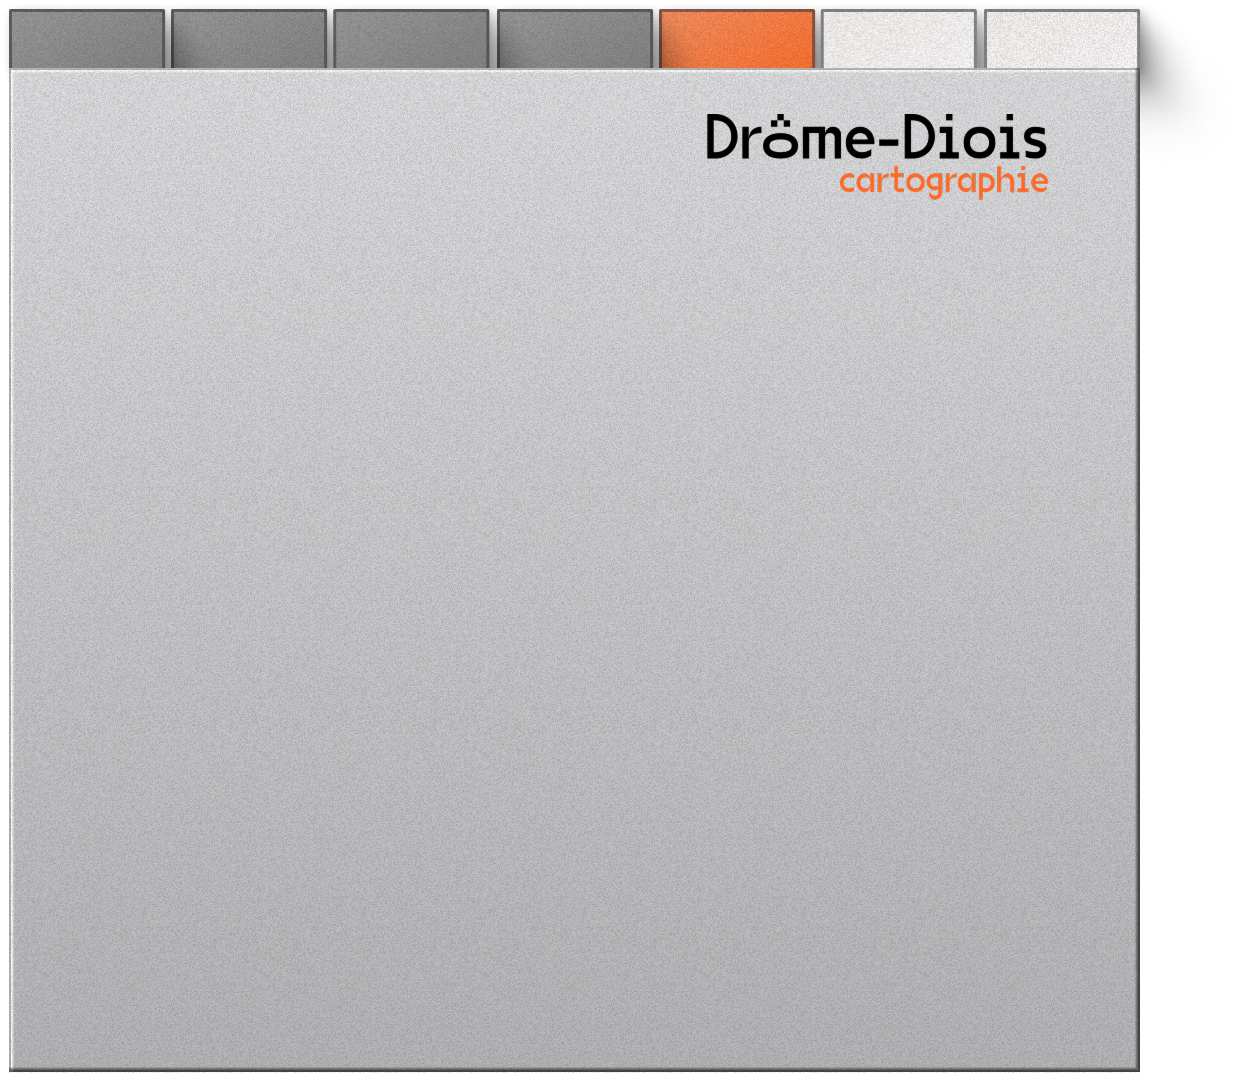
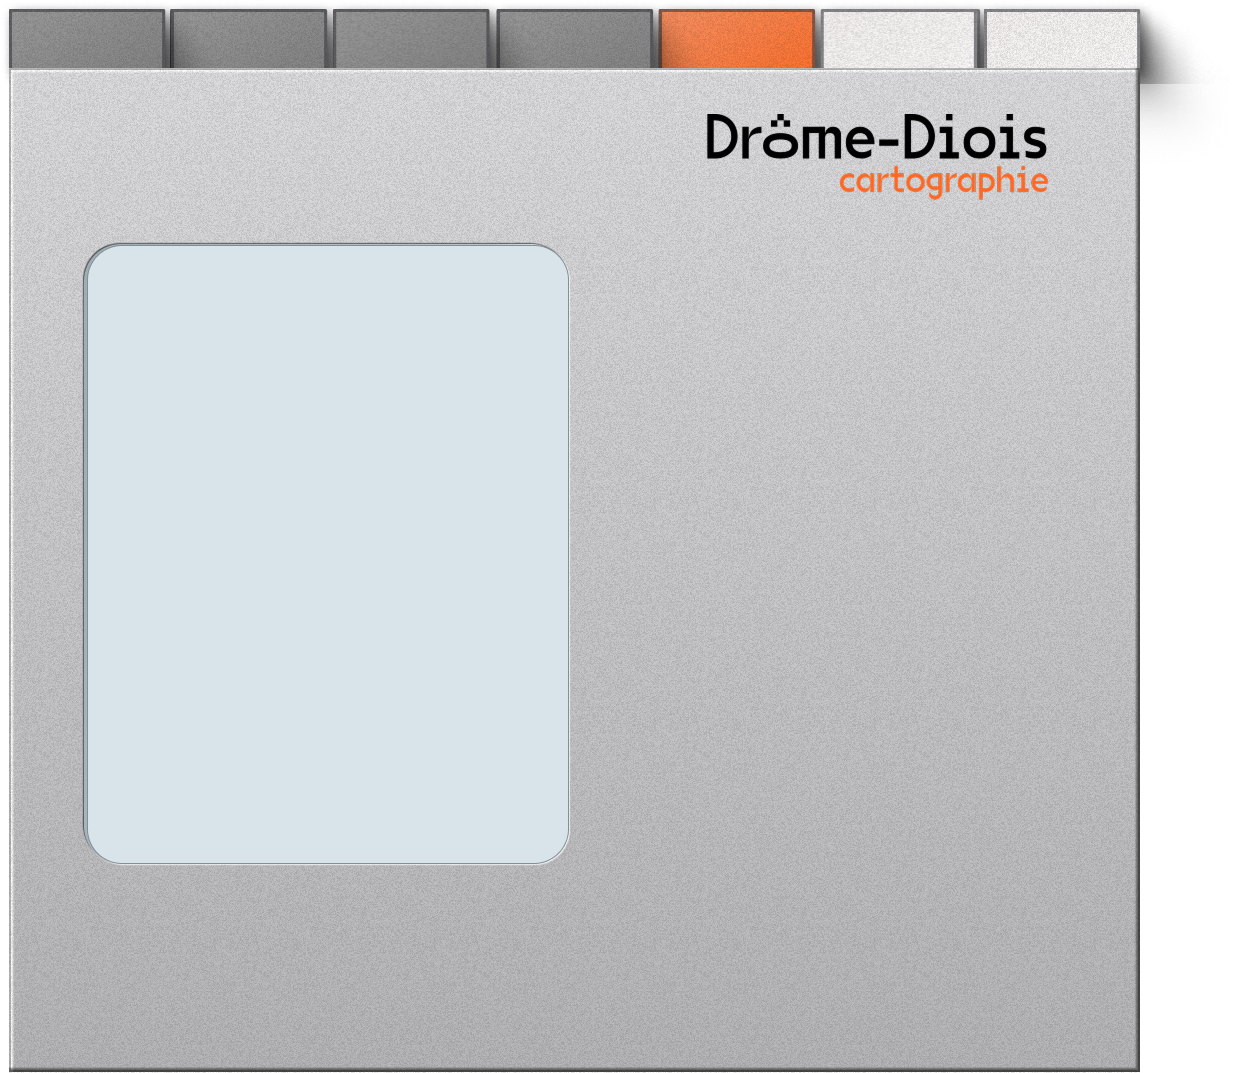
fix: restaure design onglets baké + sliders découplés + rotation robuste + slider opacité drone
- Onglets: RESTAURE le design keycap baké (fini l'aplatissement). Plaques dédiées
  activ/patri = corps réutilisé (nature/faune) + bande d'onglets de la bonne plaque
  (bon onglet orange baké). v4Plate remis sur activ/patri. Labels overlay (chips vides).
- Sliders: knoll suit le doigt EN DIRECT, apply carte (setPaintProperty/hillshade)
  throttlé ~90ms → curseur fluide même si la carte traîne (jank Android).
- Rotation: fitPanel IGNORE le paysage (plus de panneau à 350% coincé) + re-fit
  décalé (150/400/800ms) au retour portrait. Lock + garde CSS conservés.
- Expe: slider opacité drone (track dessiné + knoll) sous le bouton Drone,
  câblé state.droneOpacity -> drone-lyr raster-opacity.
- SW v13 to v14.

diff --git a/index.html b/index.html
@@ -2344,11 +2344,14 @@ const ICON4={
   car:c=>`<svg xmlns='http://www.w3.org/2000/svg' viewBox='0 0 24 24' fill='none' stroke='${c}' stroke-width='1.6' stroke-linecap='round' stroke-linejoin='round'><path d='M7 17m-2 0a2 2 0 1 0 4 0a2 2 0 1 0 -4 0'/><path d='M17 17m-2 0a2 2 0 1 0 4 0a2 2 0 1 0 -4 0'/><path d='M5 17h-2v-6l2 -5h9l4 5h1a2 2 0 0 1 2 2v4h-2m-4 0h-6m-6 -6h15m-6 0v-5'/></svg>`,
   bike:c=>`<svg xmlns='http://www.w3.org/2000/svg' viewBox='0 0 24 24' fill='${c}'><path d='M5 14a4 4 0 1 1 -4 4l.005 -.2a4 4 0 0 1 3.995 -3.8'/><path d='M19 14a4 4 0 1 1 -4 4l.005 -.2a4 4 0 0 1 3.995 -3.8'/><path d='M14.832 7.445l1.703 2.555h2.465a1 1 0 0 1 .993 .883l.007 .117a1 1 0 0 1 -1 1h-3a1 1 0 0 1 -.832 -.445l-1.396 -2.093l-3.275 2.62l2.21 2.21a1 1 0 0 1 .284 .577l.009 .131v4a1 1 0 0 1 -2 0v-3.585l-2.707 -2.708a1 1 0 0 1 -.01 -1.403l.092 -.085l5 -4a1 1 0 0 1 1.457 .226'/><path d='M17 3a2 2 0 1 1 -2 2l.005 -.15a2 2 0 0 1 1.995 -1.85'/></svg>`,
   foot:c=>`<svg xmlns='http://www.w3.org/2000/svg' viewBox='0 0 24 24' fill='none' stroke='${c}' stroke-width='1.6' stroke-linecap='round' stroke-linejoin='round'><path d='M13 4m-1 0a1 1 0 1 0 2 0a1 1 0 1 0 -2 0'/><path d='M7 21l3 -4'/><path d='M16 21l-2 -4l-3 -3l1 -6'/><path d='M6 12l2 -3l4 -1l3 3l3 1'/></svg>`};
-function v4Plate(id){ return {fond:'fond',nature:'nature',faune:'faune',activites:'nature',patri:'faune',commerce:'comm',experimental:'expe'}[id]; }
+function v4Plate(id){ return {fond:'fond',nature:'nature',faune:'faune',activites:'activ',patri:'patri',commerce:'comm',experimental:'expe'}[id]; }
 function v4El(c,s,t){const d=document.createElement('div');d.className=c;Object.assign(d.style,s);if(t!=null)d.textContent=t;return d;}
 function v4scale(){ return parseFloat(document.getElementById('plate').style.getPropertyValue('--s'))||1; }
 function fitPanel(){ const pv=document.getElementById('panel-v4'),pl=document.getElementById('plate');
   if(!pv||!pl)return;
+  // garde paysage : ne PAS recalculer le scale sur la largeur paysage (sinon panneau à 350%
+  // et coincé au retour portrait). Le #rotate-guard couvre l'écran de toute façon.
+  if(matchMedia('(orientation: landscape)').matches && window.innerHeight<560) return;
   // bbox OPAQUE de la plaque (le rectangle plein) — on scale/translate pour coller
   // bord/bord (les marges transparentes + peel-shadow sortent de l'écran).
   const OX=9, OY=9, OW=1132, OH=1063;
@@ -2359,6 +2362,8 @@ function fitPanel(){ const pv=document.getElementById('panel-v4'),pl=document.ge
   // repli : laisse voir tabs + top-bar (Drôme-Diois)
   document.documentElement.style.setProperty('--collapsed-peek', Math.round((235-OY)*s)+'px'); }
 addEventListener('resize',fitPanel);
+// retour portrait après rotation : re-fit décalé (les dims se stabilisent tard sur iOS/Android)
+addEventListener('orientationchange',()=>{ [150,400,800].forEach(t=>setTimeout(fitPanel,t)); });
 function keyV4(o){ makeButton(V4.P,{type:'key',x:o.x,y:o.y,label:o.label,on:o.on,onClick:o.onClick});
   // LED = point coloré par couche (moyen habile de remettre les couleurs)
   const col=o.color||'#c05f24';
@@ -2384,13 +2389,14 @@ function layerHalfV4(id,label,x,y){ makeButton(V4.P,{type:'half',x,y,label,on:!!
   onClick:()=>{ state.layers[id]=!state.layers[id]; drawPanel(); rerender(); }}); }
 // drag vertical LISSE : bouge le knoll direct + applique, zéro re-render (commit à la fin)
 function v4DragY(kn,RT,apply,commit){ kn.onpointerdown=e=>{e.preventDefault();kn.setPointerCapture(e.pointerId);
-  // rect caché au down (pas de getBoundingClientRect par move) + coalesce rAF → fluide Android
+  // knoll suit le doigt EN DIRECT (fluide) ; apply carte (lourd) throttlé ~90ms → fin du jank Android
   const r=document.getElementById('plate').getBoundingClientRect(), s=v4scale();
-  let raf=0, pend=null, lastV=null;
-  const flush=()=>{ raf=0; if(pend==null)return; const v=pend; pend=null;
-    kn.style.top=(RT.y1-v/100*(RT.y1-RT.y0))+'px'; if(v!==lastV){ lastV=v; apply(v); } };
-  const mv=ev=>{ pend=Math.max(0,Math.min(100,Math.round((RT.y1-(ev.clientY-r.top)/s)/(RT.y1-RT.y0)*100))); if(!raf) raf=requestAnimationFrame(flush); };
-  const up=()=>{ kn.removeEventListener('pointermove',mv);kn.removeEventListener('pointerup',up); if(raf)cancelAnimationFrame(raf); flush(); commit&&commit(); };
+  let last=0, timer=0, pend=null, lastV=null;
+  const applyNow=()=>{ timer=0; if(pend==null)return; if(pend!==lastV){ lastV=pend; apply(pend); } last=performance.now(); };
+  const mv=ev=>{ const v=Math.max(0,Math.min(100,Math.round((RT.y1-(ev.clientY-r.top)/s)/(RT.y1-RT.y0)*100)));
+    kn.style.top=(RT.y1-v/100*(RT.y1-RT.y0))+'px'; pend=v;
+    const dt=performance.now()-last; if(dt>=90) applyNow(); else if(!timer) timer=setTimeout(applyNow,90-dt); };
+  const up=()=>{ kn.removeEventListener('pointermove',mv);kn.removeEventListener('pointerup',up); if(timer)clearTimeout(timer); applyNow(); commit&&commit(); };
   kn.addEventListener('pointermove',mv);kn.addEventListener('pointerup',up);};}
 // slider HORIZONTAL générique LISSE : {min,max,get,set,live,commit}
 function v4HSlider(kn,x0,len,o){
@@ -2398,12 +2404,12 @@ function v4HSlider(kn,x0,len,o){
   pos();
   kn.onpointerdown=e=>{e.preventDefault();kn.setPointerCapture(e.pointerId);
     const r=document.getElementById('plate').getBoundingClientRect(), s=v4scale();
-    let raf=0, pendX=null;
-    const flush=()=>{ raf=0; if(pendX==null)return; const cx=pendX; pendX=null;
-      let v=o.min+((cx-r.left)/s-x0)/len*(o.max-o.min); v=Math.max(o.min,Math.min(o.max,v));
-      o.set(v); pos(); o.live&&o.live(); };
-    const mv=ev=>{ pendX=ev.clientX; if(!raf) raf=requestAnimationFrame(flush); };
-    const up=()=>{ kn.removeEventListener('pointermove',mv);kn.removeEventListener('pointerup',up); if(raf)cancelAnimationFrame(raf); flush(); o.commit&&o.commit(); };
+    let last=0, timer=0;
+    const live=()=>{ timer=0; o.live&&o.live(); last=performance.now(); };
+    const mv=ev=>{ let v=o.min+((ev.clientX-r.left)/s-x0)/len*(o.max-o.min); v=Math.max(o.min,Math.min(o.max,v));
+      o.set(v); pos();                       // set + knoll EN DIRECT (fluide, léger)
+      const dt=performance.now()-last; if(dt>=90) live(); else if(!timer) timer=setTimeout(live,90-dt); };  // o.live (carte) throttlé
+    const up=()=>{ kn.removeEventListener('pointermove',mv);kn.removeEventListener('pointerup',up); if(timer)clearTimeout(timer); o.live&&o.live(); o.commit&&o.commit(); };
     kn.addEventListener('pointermove',mv);kn.addEventListener('pointerup',up);};}
 
 // écran faune = bestiaire (cartes SVG + nom cliquables) filtré par groupe, avec cache
@@ -2602,6 +2608,14 @@ const PANELV4={
     TRK.ys.forEach((y,i)=>{ if(!SL[i])return; // 3e curv retiré (sert à rien)
       const kn=v4El('sknoll',{top:y+'px',backgroundImage:`url('assets/ui/${i%3===0?'knoll':'knoll-dot'}.png')`}); V4.P.appendChild(kn);
       v4HSlider(kn,TRK.x0,TRK.len,SL[i]); });
+    // slider opacité drone (générique, sous le bouton Drone) — track dessiné, pas baké
+    { const DX=417, DY=945, DLEN=250;
+      V4.P.appendChild(v4El('',{position:'absolute',left:DX+'px',top:'908px',font:'17px VG5000,monospace',color:'#7c766c',pointerEvents:'none'},'Opacité drone'));
+      V4.P.appendChild(v4El('',{position:'absolute',left:DX+'px',top:(DY-5)+'px',width:DLEN+'px',height:'10px',
+        borderRadius:'5px',background:'#9a978c',boxShadow:'inset 0 2px 4px #2a2c2755',pointerEvents:'none'}));
+      const kn=v4El('sknoll',{top:DY+'px',backgroundImage:"url('assets/ui/knoll.png')"}); V4.P.appendChild(kn);
+      v4HSlider(kn,DX,DLEN,{get:()=>state.droneOpacity,set:v=>state.droneOpacity=v,min:.1,max:1,
+        live:()=>map.getLayer('drone-lyr')&&map.setPaintProperty('drone-lyr','raster-opacity',state.droneOpacity)}); }
     const KN={cx:841,cy:709},az=Math.round(sunManual?sunAzimuthManual:sunAzimuth());
     V4.P.appendChild(Object.assign(v4El('',{left:(KN.cx+48)+'px',top:'510px'},`${az}°`),{id:'kread'}));
     V4.P.appendChild(Object.assign(v4El('',{left:(KN.cx-19.5)+'px',top:KN.cy+'px',width:'39px',height:'180px',transform:`rotate(${az-180}deg)`}),{id:'kptr'}));
@@ -2625,14 +2639,12 @@ function drawPanel(){ const plate=document.getElementById('plate'); if(!plate)re
   plate.style.backgroundImage=`url('assets/ui/panel-${v4Plate(state.activeTab)}-v4-plate.png')`;
   // onglets = bakés dans la plaque (état actif par plaque) + noms + zones cliquables
   const TABN=['Fond','Nature','Faune','Activ','Amis','Comm','Expe'];
-  // onglets = chips PLATS en overlay (couvrent le highlight baké de la plaque, qui sinon
-  // reste orange sur le mauvais onglet quand une plaque est réutilisée). Générique, à redesigner.
+  // onglets = highlight BAKÉ dans la plaque (design keycap) ; labels + zones cliquables en overlay.
+  // Plaques activ/patri = corps réutilisé + bande d'onglets de la bonne plaque (bon onglet orange).
   V4.TABS.forEach((id,i)=>{ const act=id===state.activeTab;
-    plate.appendChild(v4El('',{position:'absolute',left:V4.TABX[i]+'px',top:'0px',width:'164px',height:'70px',
-      background:act?'#ee7a45':'#c2c3bd',borderRadius:'13px 13px 0 0',pointerEvents:'none'}));
-    plate.appendChild(v4El('',{position:'absolute',left:(V4.TABX[i]+82)+'px',top:'34px',transform:'translate(-50%,-50%)',
-      font:"19px VG5000,monospace",letterSpacing:'.02em',color:act?'#fff':'#38382f',pointerEvents:'none'},TABN[i]));
-    const hit=v4El('',{position:'absolute',left:V4.TABX[i]+'px',top:'0px',width:'164px',height:'70px',cursor:'pointer'});
+    plate.appendChild(v4El('',{position:'absolute',left:(V4.TABX[i]+75)+'px',top:'30px',transform:'translate(-50%,-50%)',
+      font:"19px VG5000,monospace",letterSpacing:'.02em',color:act?'#fff':'#3a3a3a',pointerEvents:'none'},TABN[i]));
+    const hit=v4El('',{position:'absolute',left:V4.TABX[i]+'px',top:'0px',width:'160px',height:'64px',cursor:'pointer'});
     hit.onclick=()=>{state.activeTab=id;drawPanel();}; plate.appendChild(hit); });
   (PANELV4[state.activeTab]||(()=>{}))(); fitPanel(); }
 function renderPanel(){ drawPanel(); }  // compat : anciens appels

diff --git a/sw.js b/sw.js
@@ -3,7 +3,7 @@
 // navigation, réutilisables hors-ligne pendant 30 jours.
 // Actif uniquement en https (GitHub Pages) ou localhost — pas en file://.
 
-const VERSION = 'v13';
+const VERSION = 'v14';
 const SHELL = 'drome-shell-' + VERSION;
 const RUNTIME = 'drome-runtime-' + VERSION;
 const MAX_AGE = 30 * 24 * 60 * 60 * 1000; // 30 jours